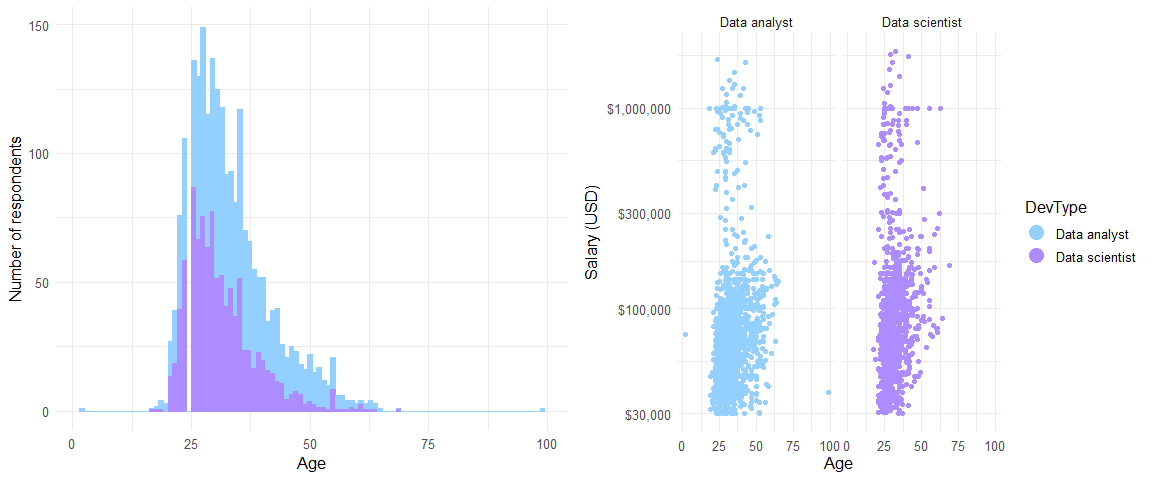
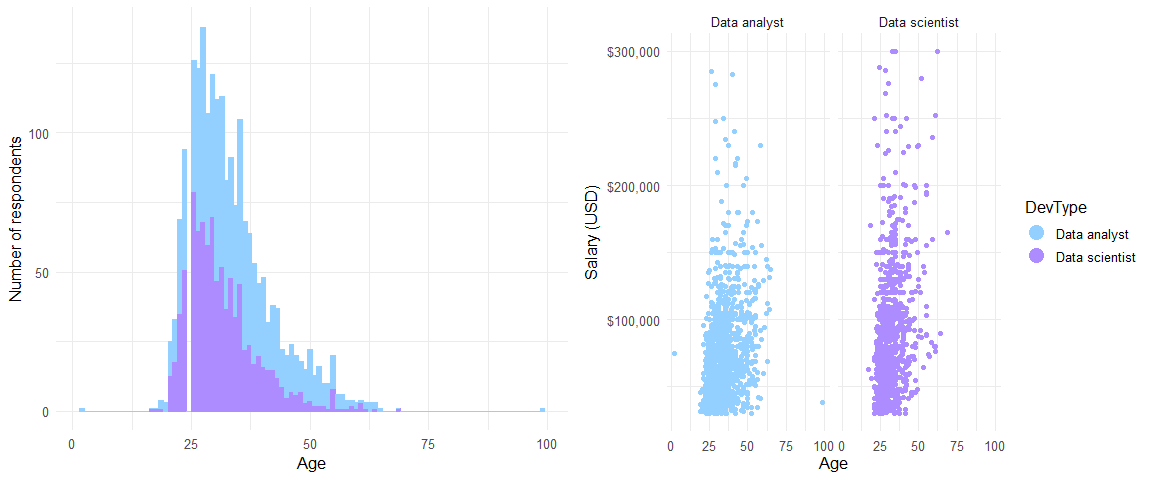
apply new salary threshold

diff --git a/README.md b/README.md
@@ -18,35 +18,30 @@ To fit a more accurate model of salary the data were filtered to:
 
   - full-time workers
 
-  - salaries between between $30,000 and $2,000,000 (salaries below this
-    are unlikely to be full-time, salaries above are most likely
-    threshold values; see the [survey
-    methodology](https://insights.stackoverflow.com/survey/2019#methodology))
+  - salaries between between $30,000 and $300,000
 
   - individual contributors working in industry only (i.e. removing
     upper management and academics)
 
 Respondents were labelled as data analysts if they identified as a “Data
 or business analyst” or a data scientist if identifying as “Data
-scientist or machine learning specialist”. 436 respondents identified
+scientist or machine learning specialist”. 405 respondents identified
 with both labels. These responses were removed to focus the analysis on
-the differences between the two groups. This left 2326 responses,
-consisting of 1058 data scientists and 1268 data analysts.
+the differences between the two groups. This left 2150 responses,
+consisting of 973 data scientists and 1177 data analysts.
 
 ### Exploring the data
 
 #### What do data scientists and data analysts earn?
 
 If we take a look at salaries overall, the median salary for data
-scientists is slightly higher than for data analysts. Salaries in both
-groups are concentrated between $30,000 and $200,000 with a small number
-scattered between $200,000 and the maximum $2,000,000.
+scientists is slightly higher than for data analysts.
 ![](README_files/figure-gfm/unnamed-chunk-3-1.png)<!-- -->
 
 | DevType        | Median salary | Min salary | Max salary |
 | :------------- | ------------: | ---------: | ---------: |
-| Data analyst   |       70580.5 |      30095 |    1750000 |
-| Data scientist |       83192.0 |      30051 |    1920000 |
+| Data analyst   |         68000 |      30095 |     284664 |
+| Data scientist |         76416 |      30000 |     300000 |
 
 <br>
 
@@ -59,7 +54,7 @@ scientists had higher median salaries than data analysts across the
 gender groups. It’s possible that women are under-represented in this
 sample, an issue that has been identified for the survey overall. This
 means between-gender differences may not generalise beyond the sample.
-19 respondents in this sample identified as trans.
+16 respondents in this sample identified as trans.
 
 ![](README_files/figure-gfm/unnamed-chunk-5-1.png)<!-- -->
 
@@ -115,25 +110,25 @@ Data analyst
 
 <td style="text-align:left;">
 
-89.4% (1134)
+89.4% (1052)
 
 </td>
 
 <td style="text-align:left;">
 
-7.3% (92)
+7.4% (87)
 
 </td>
 
 <td style="text-align:left;">
 
-1.6% (20)
+1.4% (17)
 
 </td>
 
 <td style="text-align:left;">
 
-1.7% (22)
+1.8% (21)
 
 </td>
 
@@ -149,25 +144,25 @@ Data scientist
 
 <td style="text-align:left;">
 
-88.5% (936)
+88.7% (863)
 
 </td>
 
 <td style="text-align:left;">
 
-8.5% (90)
+8.1% (79)
 
 </td>
 
 <td style="text-align:left;">
 
-1.1% (12)
+1.2% (12)
 
 </td>
 
 <td style="text-align:left;">
 
-1.9% (20)
+2.0% (19)
 
 </td>
 
